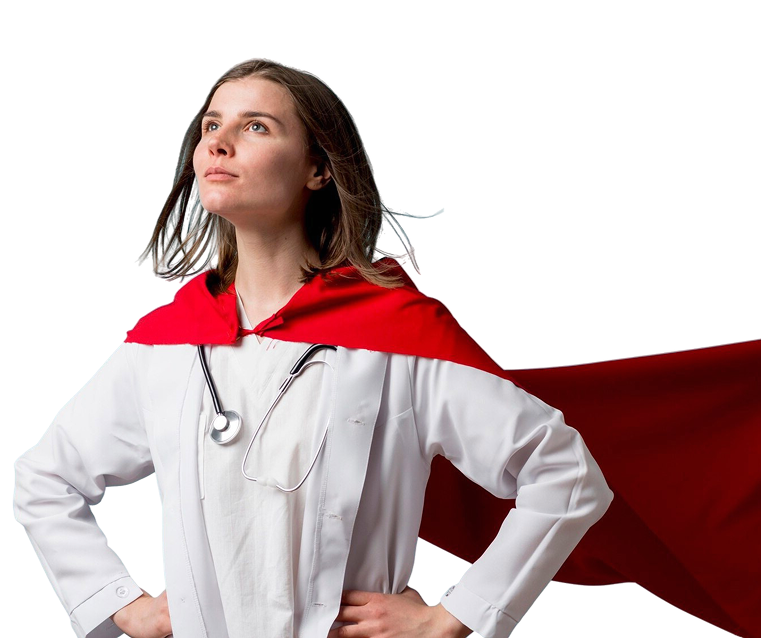
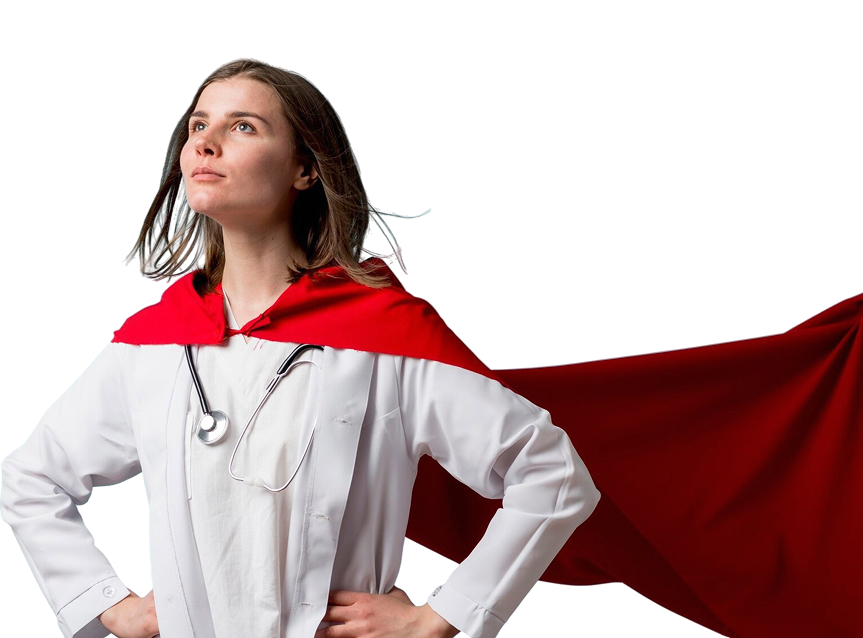
feat: b&f donation: UI and links fixes

diff --git a/src/components/modules/ChallengeModal/index.jsx b/src/components/modules/ChallengeModal/index.jsx
@@ -1,5 +1,6 @@
 import ig from '@/assets/images/ig.png'
 import bloggers from '@/assets/images/team/bloggers.png'
+import ArrowRight from '@/assets/svg/Arrow-right.jsx'
 import Ul from '@/components/ui/ul'
 import {useTranslations} from 'next-intl'
 import Image from 'next/image'
@@ -27,9 +28,17 @@ const ChallengeModal = () => {
             {t('join')}
           </span>
         </div>
-        <Ul variant="blood" classNames="flex-1 mb-2"
-          lis={[t('li.1'), t('li.2'), `${t('li.3')} ${t('#u2g')}.`, `${t('li.4')} ${t('@u2g')}.`, t('li.5')]}
-        />
+        <div className="flex flex-col items-stretch gap-6 md:gap-8 flex-1 mb-2 md:pr-6">
+          <Ul variant="blood"
+            lis={[t('li.1'), t('li.2'), `${t('li.3')} ${t('#u2g')}.`, `${t('li.4')} ${t('@u2g')}.`, t('li.5')]}
+          />
+          <a href="https://www.instagram.com/united_to_give" target="_blank"
+            className="b2 text-primary font-bold flex items-center justify-end gap-2 hover:text-dark-primary">
+            <Image src={ig} width={24} height={24} alt="instagram"/>
+            {t('iglink')}
+            <ArrowRight className="[&>path:hover]:fill-dark-primary"/>
+          </a>
+        </div>
       </div>
       <Image
         className="w-full h-auto"

diff --git a/src/components/templates/Blood/DonateTogether/index.jsx b/src/components/templates/Blood/DonateTogether/index.jsx
@@ -14,7 +14,7 @@ const DonateTogether = () => {
   return (
     <Container
       outerCls="bg-background"
-      innerCls="grid grid-cols-1 md:grid-cols-2 gap-8 md:gap-20 xl:gap-20 md:justify-between"
+      innerCls="grid grid-cols-1 md:grid-cols-2 !gap-10 !md:gap-20 !xl:gap-20 md:justify-between"
     >
       <div className="flex flex-col gap-2">
         <h2 className="text-light-black uppercase text-center md:text-left">
@@ -27,12 +27,12 @@ const DonateTogether = () => {
         <Ol classNames="mb-2" lis={[t('li1'), t('li2'), t('li3'), t('li4')]}/>
         <a href="#" target="_blank"
 					 className="flex b2 text-primary font-bold justify-end md:justify-start items-center gap-4 hover:text-dark-primary">
-          <Image src={tg} alt="telegram"/>
+          <Image src={tg} width={24} height={24} alt="telegram"/>
           {t('jointg')}
           <ArrowRight className="[&>path:hover]:fill-dark-primary -ml-2"/>
         </a>
       </div>
-      <div className="flex flex-col gap-6 md:gap-12">
+      <div className="flex flex-col gap-10 md:gap-12">
         <div className="flex flex-col gap-2">
           <h3 className="text-light-black uppercase flex items-center gap-4">
             <Image src={ig} alt="instagram"/>

diff --git a/src/components/modules/DonateModal/index.jsx b/src/components/modules/DonateModal/index.jsx
@@ -33,17 +33,17 @@ const DonateModal = () => {
           </div>
         </div>
       </div>
-      <div className="flex flex-col gap-9 items-center">
-        <div className="flex gap-4 justify-center items-center">
+      <div className="flex flex-col gap-2 justify-center items-center pb-10">
+        <a className="mx-auto p-4 hover:opacity-80" href="https://send.monobank.ua/jar/8xVHdLMwrZ" target="_blank">
+          <Image src={qr} width={265} height={265} alt="qr monobank"/>
+        </a>
+        <div className="flex gap-2 justify-center items-center">
           <Image src={mono} width={46} height={46} alt="monobank"/>
           <div>
             <h3 className="text-black-text font-bold flex items-center">{t('mono')}</h3>
             <span className="b1 text-black-text">{t('scan')}</span>
           </div>
         </div>
-        <a className="mx-auto" href="https://send.monobank.ua/jar/8xVHdLMwrZ" target="_blank">
-          <Image src={qr} width={265} height={265} alt="qr monobank"/>
-        </a>
       </div>
     </div>
   )

diff --git a/src/components/templates/Funds/FundsMain/index.jsx b/src/components/templates/Funds/FundsMain/index.jsx
@@ -11,7 +11,7 @@ const FundsMain = () => {
 
   return (
     <main
-      className="h-[calc(100dvh-88px)] md:h-[752px] w-dvw bg-main-gradient text-light-black"
+      className="h-[calc(100dvh-88px)] md:h-[752px] w-dvw bg-main-gradient text-light-black md:overflow-hidden"
     >
       <div
         className="relative max-w-screen-xl m-auto h-full flex justify-between items-stretch text-center md:text-left"
@@ -37,8 +37,8 @@ const FundsMain = () => {
           />
         </div>
         <div
-          className="max-h-dvh absolute opacity-30 w-dvw flex-none pt-8 h-full md:pt-0 md:static md:flex md:opacity-100 md:w-max">
-          <Image className="h-full" src={funds} alt={'funds'}/>
+          className="max-h-dvh md:-mr-72 absolute opacity-30 w-dvw flex-none pt-8 h-full md:pt-0 md:static md:flex md:opacity-100 md:w-max">
+          <Image className="object-cover h-full md:w-full" src={funds} alt={'funds'}/>
         </div>
       </div>
     </main>

diff --git a/src/components/ui/modal.jsx b/src/components/ui/modal.jsx
@@ -24,7 +24,7 @@ export function Modal({isOpen, onClose, classNames, children}) {
     <div
       id="modal-overlay"
       onClick={handleClickOutside}
-      className="fixed inset-0 bg-black/50 backdrop-blur-sm flex items-center justify-center z-50"
+      className="fixed inset-0 bg-black/50 backdrop-blur-sm flex items-center justify-center z-60"
     >
       <div
         className={`
@@ -36,7 +36,7 @@ export function Modal({isOpen, onClose, classNames, children}) {
       >
         <button
           onClick={onClose}
-          className="absolute top-8 right-4 md:top-10 md:right-16 text-light-black hover:text-black-text text-xl p-4 hover:opacity-80"
+          className="absolute top-7 right-4 md:top-10 md:right-16 text-light-black hover:text-black-text text-xl p-4 hover:opacity-80"
           aria-label="Close modal"
         >
           <CloseModal/>

diff --git a/src/components/templates/Blood/BloodMain/index.jsx b/src/components/templates/Blood/BloodMain/index.jsx
@@ -34,8 +34,8 @@ const BloodMain = () => {
           </div>
         </div>
         <div
-          className="max-h-dvh absolute opacity-30 w-dvw flex-none pt-8 h-full md:pt-0 md:static md:flex md:opacity-100 md:w-max">
-          <Image className="h-full" src={Kid} width={568} alt={'kid'}/>
+          className="max-h-dvh auto absolute opacity-30 w-dvw flex-none pt-24 h-full md:pt-0 md:static md:flex md:opacity-100 md:w-max">
+          <Image className="object-cover h-full" src={Kid} width={568} alt={'kid'}/>
         </div>
       </div>
     </main>

diff --git a/src/components/modules/HelpUkraine/index.jsx b/src/components/modules/HelpUkraine/index.jsx
@@ -17,7 +17,7 @@ const HelpUkraine = () => {
         <div className="flex flex-col gap-4">
           <span className="b1">
             {t('text1')}
-            <a href="#">{t('link')}</a>
+            <a target="_blank" href="https://utogetherhr.com">{t('link')}</a>
             {t('text2')}
           </span>
           <Ul variant="blood" lis={[t('li1'), t('li2'), t('li3')]}/>
